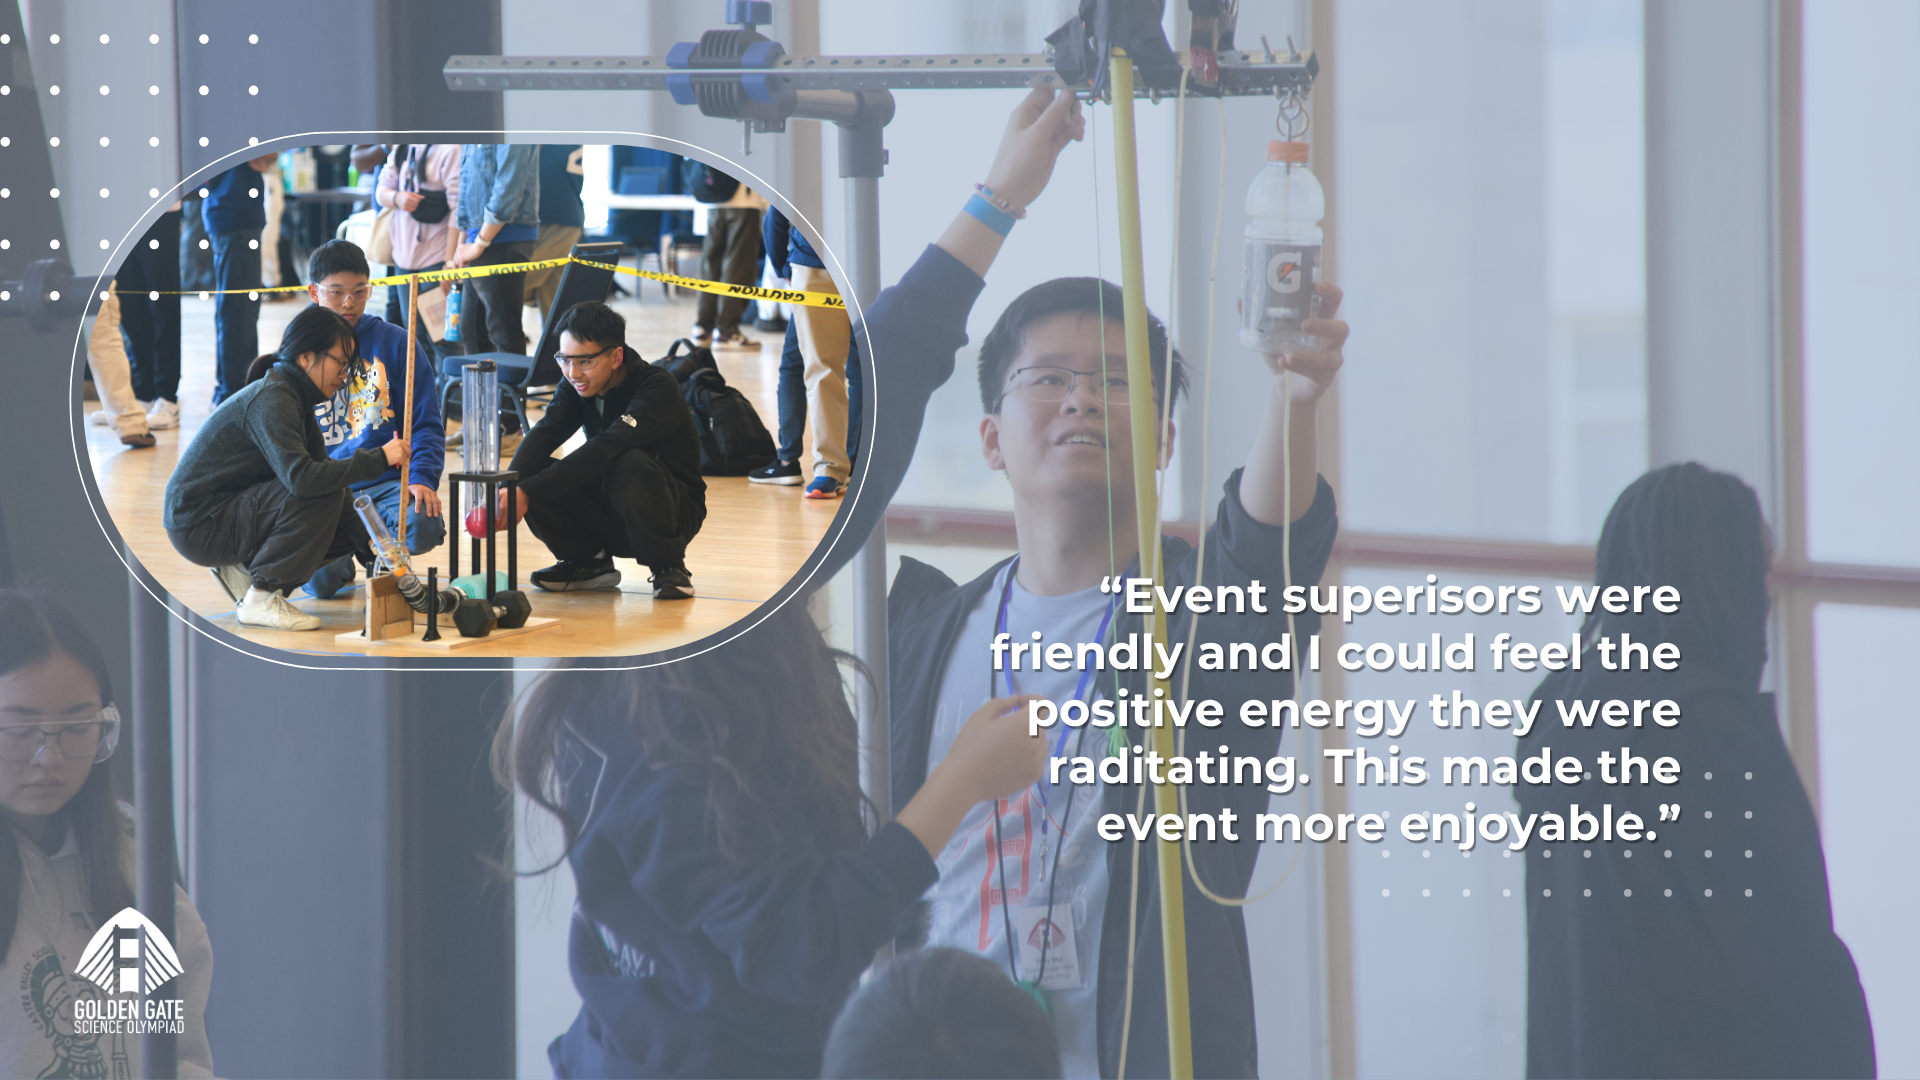
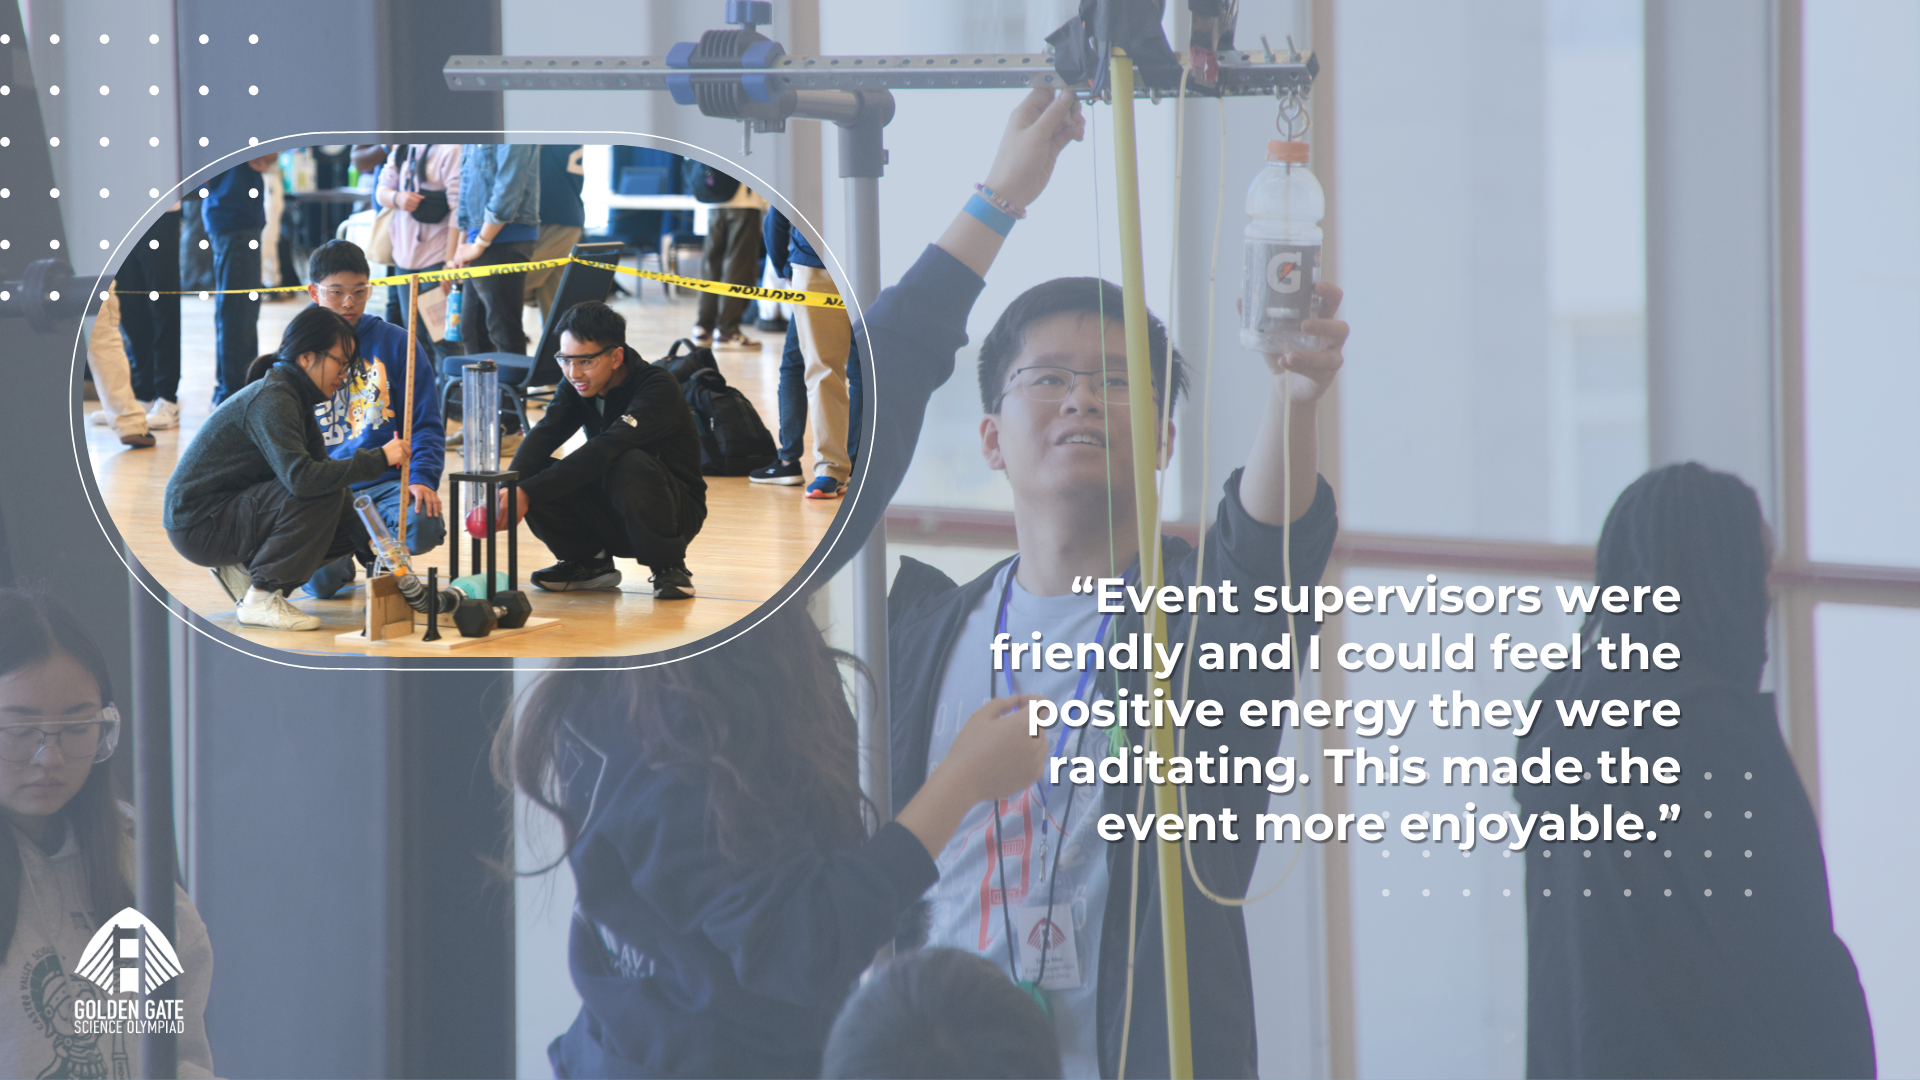
2026 tourny info

Changed region(s): [[0.5625, 0.5194, 0.75, 0.5806], [0.375, 0.2444, 0.4062, 0.275]]

diff --git a/index.html b/index.html
@@ -9,6 +9,7 @@ layout: default
             <br>		
 			<!--<script src="{{ '/js/countdown.js' | prepend: site.baseurl }}"></script>
             <div id="countdown"></div-->
+            <a href="/2026-tournament-announcement/" class="btn btn-xlg btn-light" style="min-width: 250px;">2026 Tournament Information</a> 
             <a href="https://www.duosmium.org/results/2025-02-22_golden_gate_invitational_c/" class="btn btn-xlg btn-light" style="min-width: 250px;">2025 Tournament Results</a> 
             <a href="https://drive.google.com/drive/u/5/folders/1ooYYbQLM1Y8DDrkVtmTl-grtZbg22A4P" class="btn btn-xlg btn-light" style="min-width: 200px;">2025 Public Test & Keys</a> 
             <br>
@@ -24,7 +25,7 @@ layout: default
     <div class="container">
         <div class="col-lg-12 text-center">
                <h2>RUN BY STANFORD AND UC BERKELEY STUDENTS</h2>
-               <p class="lead">Led by previous national medalists, Golden Gate Science Olympiad represents a collaboration between Stanford University and University of California, Berkeley students. Coming on January 2025 will be the tenth annual Division C tournament. Explore the tabs above for more information.</p><br>
+               <p class="lead">Led by previous national medalists, Golden Gate Science Olympiad represents a collaboration between Stanford University and University of California, Berkeley students. January 31st, 2026 will be the tenth annual Division C invitational, <b>hosted in-person at Stanford</b>! Explore the tabs above for more information.</p><br>
            </div>
         </div>
     </div>

diff --git a/_posts/2025-08-26-tournament-announcement.md b/_posts/2025-08-26-tournament-announcement.md
@@ -1,0 +1,19 @@
+---
+layout: info
+title: 2026 Tournament Announcement!
+permalink: /2026-tournament-announcement/
+---
+
+# 2026 Tournament Announcement
+
+Hello GGSO Community,
+
+The 10th annual Division C Golden Gate Science Olympiad Invitational will be hosted **in person at Stanford on Saturday, January 31st, 2026**! Registration details will be announced in an upcoming announcement.
+
+This is the first time GGSO will be hosted at Stanford, and we’re so excited to create an unforgettable competition experience for all teams at the “Farm”. To help us plan for this season’s invite, please let us know your Awards Ceremony preferences via this  <a target="_blank" href="https://forms.gle/Ko1dKB6zgM7WMTCA7">form</a>.
+
+Feel free to email us with any questions or suggestions. We can’t wait to welcome you to Stanford campus!
+
+**Links**
+<br/>
+<a class="btn btn-md btn-mid" target="_blank" href="mailto:goldengatescioly@gmail.com">Email Us</a>
